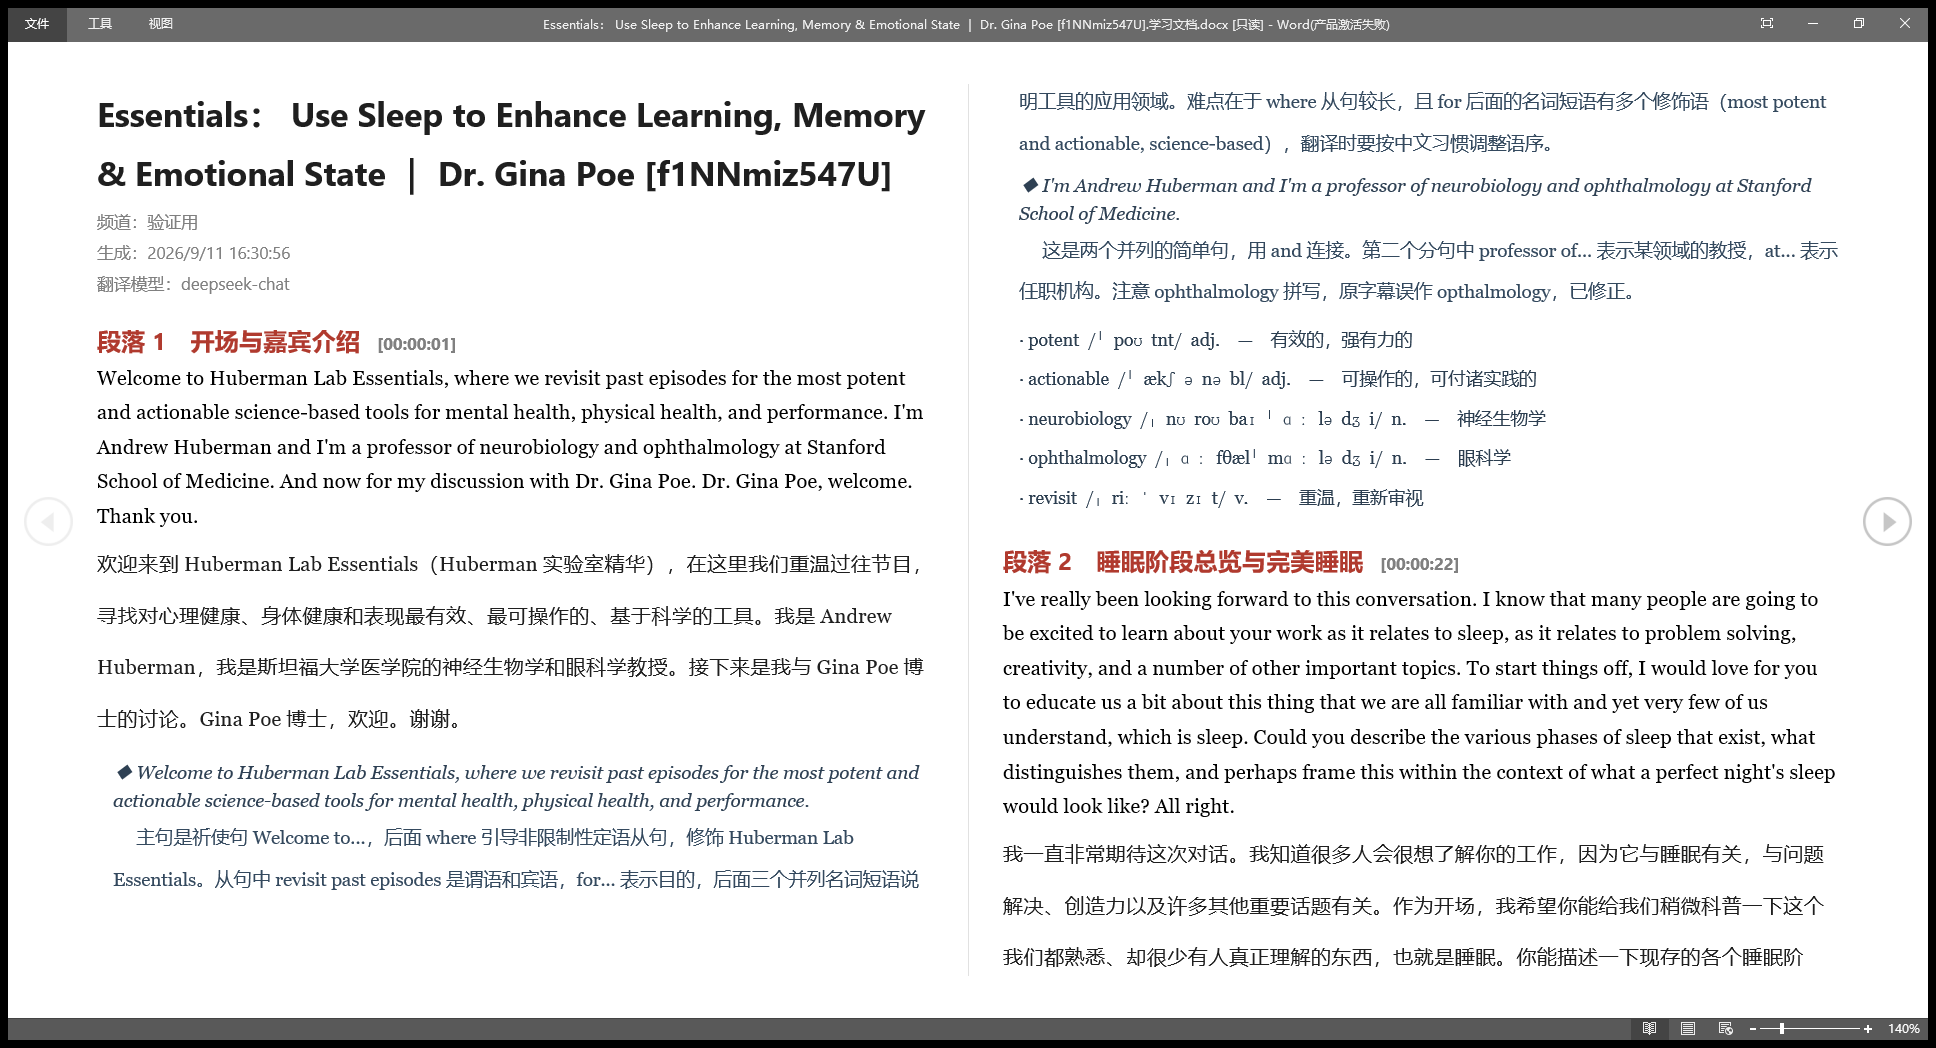
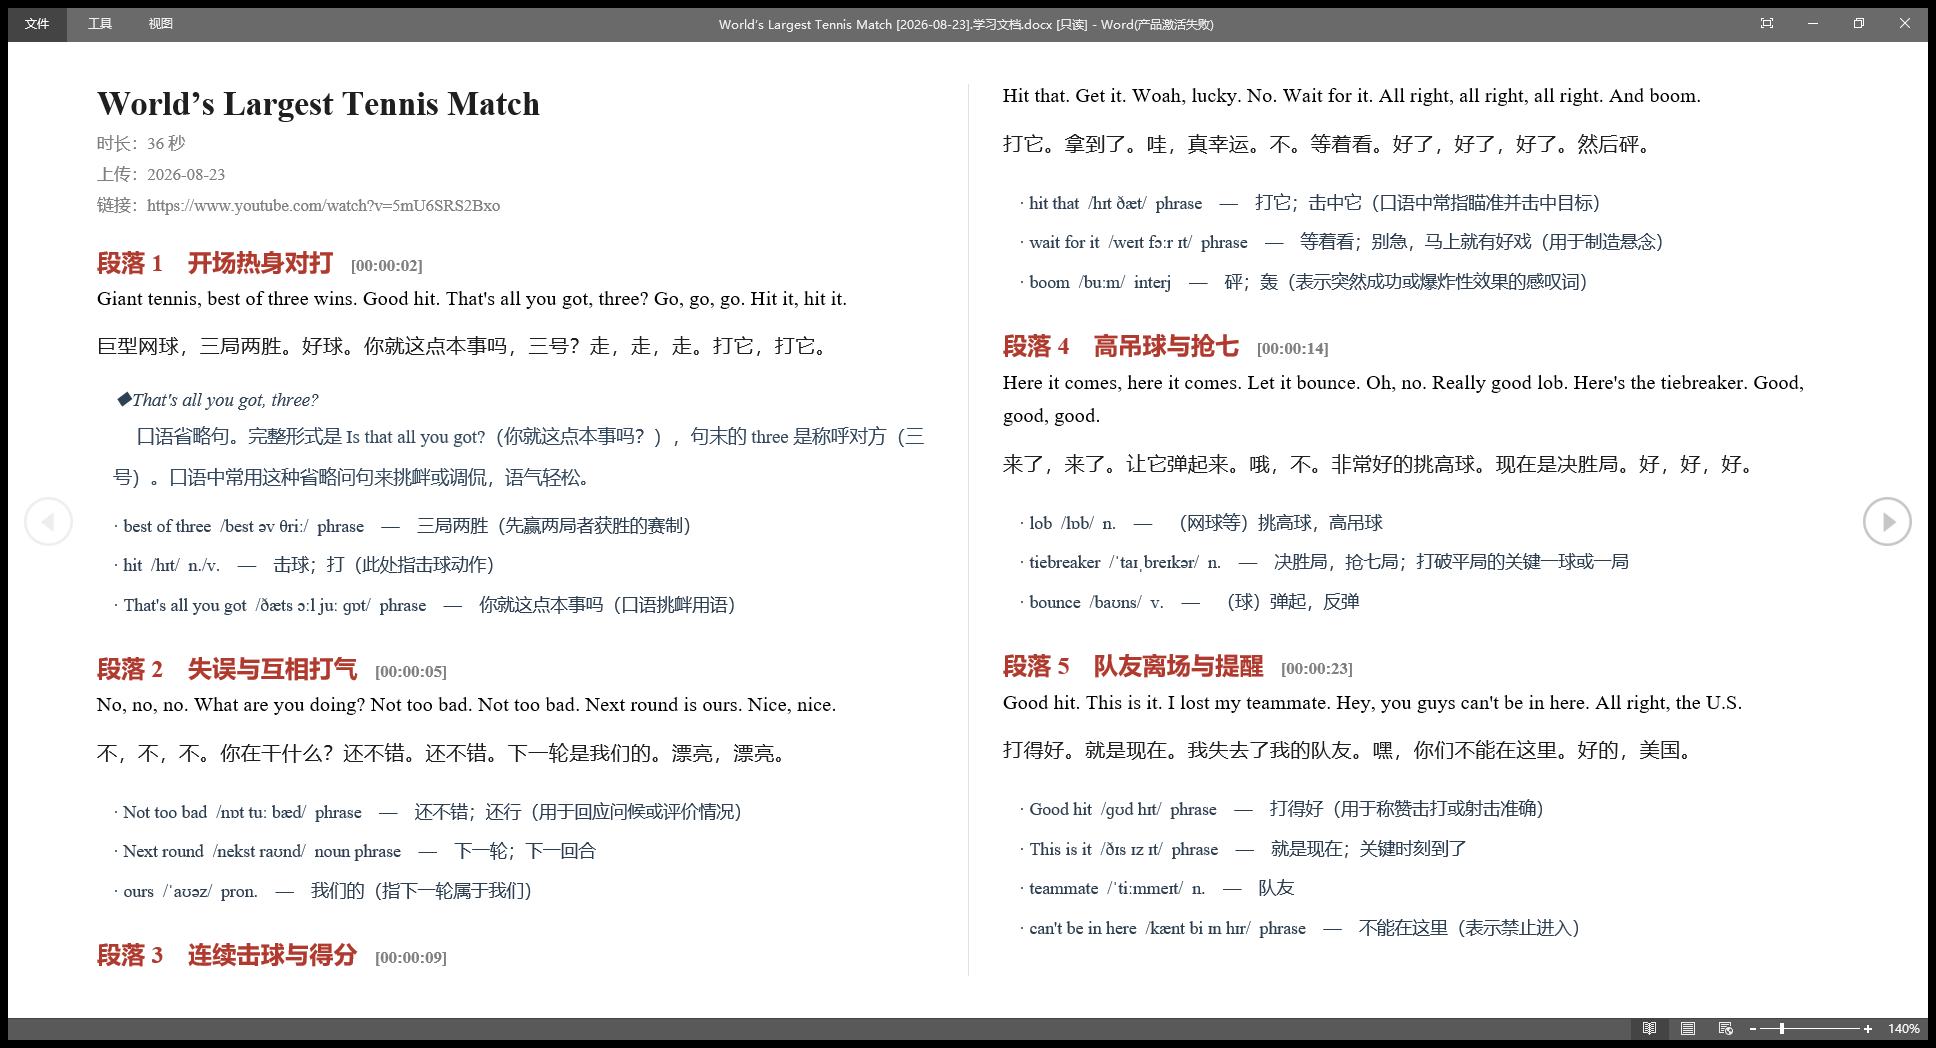
v1.1.2: 文档字体与元信息
- Word 所有英文（含音标）改用 Times New Roman（原先 Georgia 会让 IPA 字符掉进回退字体、字距错乱）
- 元信息「生成日期」改为「视频上传日期」；下载开始时用 --print before_dl 抓取 duration/upload_date/channel，旧任务回退到文件名里的 [YYYY-MM-DD]

diff --git a/src/main/queue.js b/src/main/queue.js
@@ -64,6 +64,23 @@ function nowIso() {
   return new Date().toISOString();
 }
 
+/** '20260823' → '2026-08-23'；拿不到就返回空串 */
+function fmtUploadDate(v) {
+  const s = String(v || '').trim();
+  if (/^\d{8}$/.test(s)) return `${s.slice(0, 4)}-${s.slice(4, 6)}-${s.slice(6, 8)}`;
+  if (/^\d{4}-\d{2}-\d{2}$/.test(s)) return s;
+  return '';
+}
+
+/**
+ * 上传日期的兜底：从文件名里抠 [YYYY-MM-DD]。
+ * 默认文件名模板就是「标题 [上传日期]」，所以老任务（下载时还没抓这个字段）也能补上。
+ */
+function uploadDateFromPath(p) {
+  const m = String(p || '').match(/\[(\d{4}-\d{2}-\d{2})\]/);
+  return m ? m[1] : '';
+}
+
 /**
  * 收集与视频同名的字幕文件（如 `标题 [2026-08-23].zh-Hans.srt`）。
  * 字幕由 yt-dlp 直接落盘，路径不经过 --print，因此这里用同名前缀扫目录。
@@ -295,6 +312,7 @@ class DownloadQueue extends EventEmitter {
         liveStatus: it.liveStatus || null,
         thumbnail: it.thumbnail || '',
         duration: it.duration || null,
+        uploadDate: '', // 下载开始时由 META| 行填充（YYYYMMDD）
         url: it.url || `https://www.youtube.com/watch?v=${it.id}`,
         opts: Object.assign({}, opts),
         status: 'queued',
@@ -405,6 +423,10 @@ class DownloadQueue extends EventEmitter {
       'download:DL|%(progress.status)s|%(progress.downloaded_bytes)s|%(progress.total_bytes)s|%(progress.total_bytes_estimate)s|%(progress.speed)s|%(progress.eta)s|%(progress.filename)s',
       '--progress-template',
       'postprocess:PP|%(progress.status)s|%(progress.postprocessor)s',
+      // 下载开始前拿一次准确的元信息（上传日期/时长/频道），供文件名与学习文档使用。
+      // 时长和上传日期放前面、频道放最后：频道名里万一有 | 也只影响尾部。
+      '--print',
+      'before_dl:META|%(duration)s|%(upload_date)s|%(channel)s',
       // 下载完成后的真实落盘路径
       '--print',
       'after_move:FINAL|%(filepath)s',
@@ -495,6 +517,16 @@ class DownloadQueue extends EventEmitter {
       item.stage = status === 'finished' ? `${label} 完成` : `${label}…`;
       item.speed = 0;
       item.eta = null;
+      this.changed();
+      return;
+    }
+    if (line.startsWith('META|')) {
+      const p = line.split('|');
+      const dur = num(p[1]);
+      if (dur != null && dur > 0) item.duration = Math.round(dur);
+      if (p[2] && p[2] !== 'NA') item.uploadDate = p[2]; // YYYYMMDD
+      const ch = p.slice(3).join('|').trim();
+      if (ch && !item.channel) item.channel = ch;
       this.changed();
       return;
     }
@@ -849,7 +881,7 @@ class DownloadQueue extends EventEmitter {
           title: item.title,
           channel: item.channel,
           durationMs: durationSec * 1000,
-          uploadDate: '',
+          uploadDate: fmtUploadDate(item.uploadDate) || uploadDateFromPath(item.filePath),
           url: item.url,
         },
         settings,
@@ -1016,4 +1048,11 @@ class DownloadQueue extends EventEmitter {
   }
 }
 
-module.exports = { DownloadQueue, QUALITY_LIMIT, buildFormat, POSTPROCESS_LABEL };
+module.exports = {
+  DownloadQueue,
+  QUALITY_LIMIT,
+  buildFormat,
+  POSTPROCESS_LABEL,
+  fmtUploadDate,
+  uploadDateFromPath,
+};

diff --git a/src/main/study/word.js b/src/main/study/word.js
@@ -29,8 +29,14 @@ const {
   ShadingType,
 } = require('docx');
 
-const FONT = { ascii: 'Georgia', hAnsi: 'Georgia', eastAsia: '微软雅黑' };
-const FONT_UI = { ascii: 'Segoe UI', hAnsi: 'Segoe UI', eastAsia: '微软雅黑' };
+/**
+ * 字体：所有英文（含音标）一律 Times New Roman，中文用微软雅黑。
+ * 用 ascii/hAnsi 指定西文、eastAsia 指定中文——docx 会把同一段里的中英文分别套用，
+ * 否则中文会被西文字体接管，或者音标里的 IPA 字符（ˈ ə ʊ 等）掉进回退字体、间距错乱。
+ */
+const LATIN = 'Times New Roman';
+const FONT = { ascii: LATIN, hAnsi: LATIN, eastAsia: '微软雅黑' };
+const FONT_UI = { ascii: LATIN, hAnsi: LATIN, eastAsia: '微软雅黑' };
 
 const GRAY = '808080';
 const DARK = '1F1F1F';
@@ -107,9 +113,9 @@ async function buildStudyDocx(input) {
   const metaBits = [];
   if (meta.channel) metaBits.push(`频道：${meta.channel}`);
   if (meta.durationMs) metaBits.push(`时长：${fmtDuration(meta.durationMs)}`);
+  // 上传日期（由下载时抓取，缺失时回退到文件名里的 [YYYY-MM-DD]）
   if (meta.uploadDate) metaBits.push(`上传：${meta.uploadDate}`);
   if (meta.url) metaBits.push(`链接：${meta.url}`);
-  metaBits.push(`生成：${new Date().toLocaleString('zh-CN', { hour12: false })}`);
   for (const b of metaBits) {
     children.push(new Paragraph({ style: 'MetaLine', children: runs(b, FONT_UI, { size: 18, color: GRAY }) }));
   }

diff --git a/src/main/main.js b/src/main/main.js
@@ -15,7 +15,8 @@ const channel = require('./channel');
 const study = require('./study');
 const studyLlm = require('./study/llm');
 const secret = require('./study/secret');
-const { DownloadQueue } = require('./queue');
+const queueMod = require('./queue');
+const { DownloadQueue } = queueMod;
 
 const queue = new DownloadQueue();
 
@@ -267,7 +268,7 @@ function registerIpc() {
           title: item.title,
           channel: item.channel,
           durationMs: (Number(item.duration) || 0) * 1000,
-          uploadDate: '',
+          uploadDate: queueMod.fmtUploadDate(item.uploadDate) || queueMod.uploadDateFromPath(item.filePath),
           url: item.url,
         },
         settings,

diff --git a/CHANGELOG.md b/CHANGELOG.md
@@ -1,5 +1,16 @@
 # 更新日志
 
+## v1.1.2 — 文档字体与元信息（2026-09-11）
+
+- **Word 里所有英文（含音标）改用 Times New Roman**。音标里含 IPA 字符（`ˈ ə ʊ ː` 等），
+  之前用 Georgia 会掉进回退字体、字距错乱；Times New Roman 的 IPA 覆盖完整，显示正常。
+  中文仍用微软雅黑（`w:rFonts` 的 `eastAsia`），同一段里的中英文各走各的字体。
+- **元信息里的「生成日期」改为「视频上传日期」**。上传日期在下载开始时由 yt-dlp 抓取
+  （`--print before_dl:` 输出 `duration|upload_date|channel`），比生成时间对学习材料更有意义。
+  旧任务没有该字段时，会从文件名的 `[YYYY-MM-DD]` 里兜底提取。
+
+---
+
 ## v1.1.1 — 交互修补（2026-09-11）
 
 - **新增「选中未下载」按钮**：在已选基础上**追加**所有未下载的视频（与「仅选未下载」的区别是不清空已有选择）
